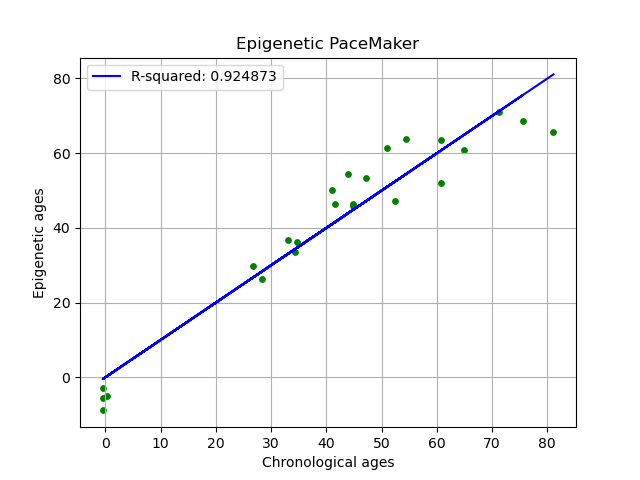
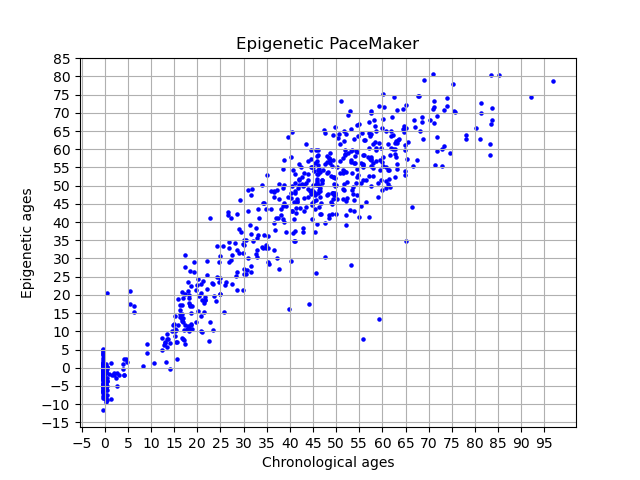
added plots, runtime, output files

Changed region(s): [[0.0312, 0.0938, 0.9062, 0.9062], [0.125, 0.875, 0.875, 0.9375]]

diff --git a/Protocol/epigenetic_pacemaker.py b/Protocol/epigenetic_pacemaker.py
@@ -1,20 +1,33 @@
-# IMPORTS
-import math
-import numpy as np
-import matplotlib.pyplot as plt
-import utilities as utils
-from scipy import stats
+# import the data retrieval class
 from EpigeneticPacemaker.ExampleData.DataSets import get_example_data
+from typing import Dict, Tuple
+import numpy as np
+import scipy.stats
+import matplotlib.pyplot as plt
+from scipy import stats
+import math
+# from scipy.stats import chi2_contingency
+import subprocess
+import numpy as np
+import time
+import utilities as utils
 
 
-#   <----- UNENCRYPTED CEM-UPM ALGORITHM ----->
+# -------------------------------------------------------------------------unused
+# create S' entries for sites with high Pearson correaltion
+def Create_S_matrix(training_sites, test_methylation_values):
+    sites = []
+    for x in range(len(training_sites)):
+        sites.append(test_methylation_values[training_sites[x]])  # entry Si,j
+    return sites
 
 
+# ----------------------------------------------------------------------------------------
 # clear from data variables correspond to small ages
-def clear_data_by_ages(ages, methylation_values, limit):
+def Clear_data_by_ages(ages, methylation_values, limit):
     x = 0
     while x < len(ages):
-        if ages[x] < limit:
+        if (ages[x] < limit):
             # delete age and site values related to it
             methylation_values = np.delete(methylation_values, x, axis=1)
             ages = np.delete(ages, x)
@@ -23,26 +36,27 @@ def clear_data_by_ages(ages, methylation_values, limit):
     return ages, methylation_values
 
 
-# func for calculating absolute Pearson correlation
+# func for calculating absolute Pearson correaltion
 def pearson_correlation(ages, methylation_values):
     p_values = []
     for x in range(len(methylation_values)):
-        p_values.append(abs(stats.pearsonr(methylation_values[x], ages)[0]))
+        p_values.append(abs(scipy.stats.pearsonr(methylation_values[x], ages)[0]))
     return p_values
 
 
 # create y vector for sites with high Pearson correaltion
-def create_y_vector(s):
+def Create_Y_vector(S):
     y = []
-    for i in range(len(s)):
-        for j in range(len(s[i])):
-            y.append(s[i][j])  # entry Si,j
+    for i in range(len(S)):
+        for j in range(len(S[i])):
+            y.append(S[i][j])  # entry Si,j
     return y
 
 
 # Naive func for calculating rates and start states(βˆ = (X^T *X)^−1 * X^T*y)
 # gets : ages (X matrix), sites (y vecrtor), n (the number of sites)
-def calculate_rates_and_start_states_naive(ages, sites, n):
+def calculate_rates_and_startStates_Naive(ages, sites, n):
+    # create matrix X
     m = len(ages)
     matrix = []
     # create matrix X
@@ -68,24 +82,15 @@ def calculate_rates_and_start_states_naive(ages, sites, n):
                 row.append(0)
                 place += 1
             matrix.append(row)
-    mat = []
-    for x in range(len(matrix)):
-        temp = []
-        for y in range(len(matrix[0])):
-            temp.append(matrix[x][y])
-        mat.append(temp)
-    f = open("demofile2.txt", "w")
-    f.write(str(mat))
-    f.close()
-    # create X^T
+            # create X^T
     matrix_transpose = np.array(matrix).transpose()
-    # multipy X^T *X
+    # multipe X^T *X
     mul = np.matmul(matrix_transpose, np.array(matrix))
     # get matrix inverse ((X^T *X)^−1)
     inverse = np.linalg.inv(mul)
-    # multiply [(X^T *X)^−1] and  [X^T]
+    # multiple [(X^T *X)^−1] and  [X^T]
     mul = np.matmul(inverse, matrix_transpose)
-    # multiply the result by vector y
+    # multiple the result by vector y
     result = np.matmul(mul, np.array(sites))
     ri = []
     s0i = []
@@ -99,7 +104,7 @@ def calculate_rates_and_start_states_naive(ages, sites, n):
 
 # advanced func for calculating rates and start states(βˆ = (X^T *X)^−1 * X^T*y)
 # gets : ages and sites
-def calculate_rates_and_start_states(ages, sites):
+def calculate_rates_and_startStates(ages, sites):
     a = sum(ages)
     b = 0
     for i in range(len(ages)):
@@ -134,7 +139,7 @@ def calculate_rates_and_start_states(ages, sites):
 
 
 # calculate epigenetic ages by tj = ∑(i≤n)[ri*(si,j-s0i))]/∑(i≤n)[ri^2]
-def calculate_ages(S, s0i, ri):
+def calcultae_eAges(S, s0i, ri):
     denominator = 0
     for i in range(len(ri)):
         denominator += ri[i] * ri[i]
@@ -148,13 +153,13 @@ def calculate_ages(S, s0i, ri):
 
 
 # calculate RSS,  (RSS =∑(i≤n)∑(j≤m)((Si,j – (s0i + ritj))^2).
-def calculate_rss(s, s0i, ri, tj):
-    rss = 0
+def calculateRSS(S, s0i, ri, tj):
+    RSS = 0
     for i in range(len(ri)):
         for j in range(len(tj)):
-            temp = s[i][j] - (s0i[i] + ri[i] * tj[j])
-            rss += temp * temp
-    return rss
+            temp = S[i][j] - (s0i[i] + ri[i] * tj[j])
+            RSS += temp * temp
+    return RSS
 
 
 # EPM algorithm
@@ -162,28 +167,70 @@ def calculate_rss(s, s0i, ri, tj):
 def EPM(S, y, tj, delta, n):
     m = 2
     # first iteration
-    ri, s0i = calculate_rates_and_start_states(tj, y)
-    tj = calculate_ages(S, s0i, ri)
-    RSS0 = calculate_rss(S, s0i, ri, tj)
+    ri, s0i = calculate_rates_and_startStates(tj, y)
+    tj = calcultae_eAges(S, s0i, ri)
+    RSS0 = calculateRSS(S, s0i, ri, tj)
     if (n == 1):
         return ri, s0i, tj, RSS0
     # second iteration
-    ri, s0i = calculate_rates_and_start_states(tj, y)
-    RSS1 = calculate_rss(S, s0i, ri, tj)
-    tj = calculate_ages(S, s0i, ri)
+    ri, s0i = calculate_rates_and_startStates(tj, y)
+    RSS1 = calculateRSS(S, s0i, ri, tj)
+    print("the difference is : %.16f" % (RSS0 - RSS1))
+    tj = calcultae_eAges(S, s0i, ri)
     # rest of iterations
-    while (RSS0 - RSS1 > delta and m < n):
+    # while (RSS0 - RSS1 > delta and m < n):
+    while (m < n):
         RSS0 = RSS1
-        ri, s0i = calculate_rates_and_start_states(tj, y)
-        tj = calculate_ages(S, s0i, ri)
-        RSS1 = calculate_rss(S, s0i, ri, tj)
+        ri, s0i = calculate_rates_and_startStates(tj, y)
+        tj = calcultae_eAges(S, s0i, ri)
+        RSS1 = calculateRSS(S, s0i, ri, tj)
+        print("the difference is : %.16f" % (RSS0 - RSS1))
         m += 1
     return ri, s0i, tj, RSS1, m
 
 
+# EPM algorithm with naive implementation
+# gets S' matrix, Y vector, chronological ages - tj, delta = minimal improvement acceptable,  n = maximum number of iterations
+
+def EPM_naive(S, y, tj, delta, n):
+    m = 2
+    # first iteration
+    ri, s0i = calculate_rates_and_startStates_Naive(tj, y, len(S))
+    tj = calcultae_eAges(S, s0i, ri)
+    RSS0 = calculateRSS(S, s0i, ri, tj)
+    if (n == 1):
+        return ri, s0i, tj, RSS0
+    # second iteration
+    ri, s0i = calculate_rates_and_startStates_Naive(tj, y, len(S))
+    RSS1 = calculateRSS(S, s0i, ri, tj)
+    # print("the difference is : ", str(RSS0 - RSS1))
+    tj = calcultae_eAges(S, s0i, ri)
+    # rest of iterations
+    while ( m < n):
+        RSS0 = RSS1
+        ri, s0i = calculate_rates_and_startStates_Naive(tj, y, len(S))
+        tj = calcultae_eAges(S, s0i, ri)
+        RSS1 = calculateRSS(S, s0i, ri, tj)
+        #   print("the difference is : ", str(RSS0 - RSS1))
+        m += 1
+    return ri, s0i, tj, RSS1, m
+
+
+# create scatter graph
+def graph(x: np.array, y: np.array):
+    plt.title("Epigenetic PaceMaker")
+    plt.xlabel("Chronological ages")
+    plt.ylabel("Epigenetic ages")
+    plt.xticks([tick for tick in range(-20, 100, 5)])
+    plt.yticks([tick for tick in range(-20, 100, 5)])
+    plt.gca().xaxis.grid(True)
+    plt.gca().yaxis.grid(True)
+    plt.scatter(x, y, color="green", s=5)
+    plt.show()
+
 
 # calculate chi square and p value
-def chi_square(num_individuals, num_sites, val1, val2):
+def Chi_square(num_individuals, num_sites, val1, val2):
     # calc chi square
     chi = num_individuals * num_sites * math.log(val1 / val2)
     # calc p value, use chi value and degree of freedom
@@ -202,7 +249,7 @@ def noise(S, s0, r, t):
 
 
 # ratio between its MC to PM rate
-def graph_ratio_sites(rMC, rPM):
+def graph_Ratio_sites(rMC, rPM):
     arr = []
     s = 0
     for x in range(len(rMC)):
@@ -228,7 +275,38 @@ def graph_ratio_ages(e_age, c_age):
     plt.show()
 
 
-def run_unencrypted_epm():
+# func to compare between number of individuals to running time, solution: 1 for naive, 2 otherwise
+def checkRunningTimes (NUMBER_OF_SITES, NUMBER_OF_PEOPLE, solution):
+    # retrieve the training and testing data
+    data1, data2 = get_example_data()
+    # unpack the training and testing data
+    samples1, cpg_sites1, ages1, methylation_values1 = data1
+    samples2, cpg_sites2, ages2, methylation_values2 = data2
+    ages = np.hstack([ages1 , ages2])
+    methylation_values = np.hstack([methylation_values1 , methylation_values2])
+    # get the absolute value of the correlation coefficient
+    pearson = np.array(pearson_correlation (ages, methylation_values))
+    # return list of site indices with a high absolute correlation coefficient
+    sites = np.where(pearson > .90)[0]
+    print (len(sites))
+    sites = sites[:NUMBER_OF_SITES]
+    ages = ages[:NUMBER_OF_PEOPLE]
+    S = methylation_values[sites, :NUMBER_OF_PEOPLE]
+    print ("the number of individuals is : ", str(len(ages)))
+     #creat y vector :
+    y = Create_Y_vector(S)
+    st = time.time()
+     #run EPM algorithm
+    if(solution == 1):
+            ri, s0i,tj,RSS, m= EPM_naive(S,y, ages, 0.00001, 4)
+    else:
+            ri, s0i,tj,RSS, m= EPM(S,y, ages, 0.00001, 4)
+    et = time.time()
+    elapsed_time = (et - st)
+    print('Execution time:', elapsed_time, 'seconds')
+
+
+def createGraph(NUMBER_OF_SITES, NUMBER_OF_PEOPLE):
     # retrieve the training and testing data
     data1, data2 = get_example_data()
     # unpack the training and testing data
@@ -236,22 +314,22 @@ def run_unencrypted_epm():
     samples2, cpg_sites2, ages2, methylation_values2 = data2
     ages = np.hstack([ages1, ages2])
     methylation_values = np.hstack([methylation_values1, methylation_values2])
-    # take only peaple with age >= 0
-    # ages, methylation_values = Clear_data_by_ages (ages, methylation_values,0)
     # get the absolute value of the correlation coefficient
     pearson = np.array(pearson_correlation(ages, methylation_values))
     # return list of site indices with a high absolute correlation coefficient
     sites = np.where(pearson > .90)[0]
-    # print("the number of individuals is : ", str(len(ages)))
-    # print("the number of sites is : ", str(len(sites)))
-    # creat S matrix :
-    S = methylation_values[sites]
+    sites = sites[:NUMBER_OF_SITES]
+    ages = ages[:NUMBER_OF_PEOPLE]
+    S = methylation_values[sites, :NUMBER_OF_PEOPLE]
+    print("number of sites is: ", str(len(sites)))
+    print("number of individuals is : ", str(len(ages)))
     # creat y vector :
-    y = create_y_vector(S)
+    y = Create_Y_vector(S)
     # run EPM algorithm
-    ri, s0i, tj, RSS, m = EPM(S, y, ages, 0.00001, 1000)
-    # print("number of iterations is: ", str(m))
+    ri, s0i, tj, RSS, m = EPM(S, y, ages, 0.00000001, 4)
+    #    print (m)
     utils.create_graph(ages, tj)
+
     return tj
 
 

diff --git a/Protocol/main.py b/Protocol/main.py
@@ -11,7 +11,7 @@ from time_step import time_step
 
 
 # CONSTANTS
-NUM_OF_OWNERS = 8
+NUM_OF_OWNERS = 5
 NUM_OF_ITERATIONS = 4
 
 
@@ -99,7 +99,7 @@ if __name__ == '__main__':
     end_time = time.time()
 
     hours, minutes, seconds = utils.timer(start_time, end_time)
-
+    logging.info("Runtime: " + str(end_time - start_time))
     logging.info("Runtime: " + ("{:0>2}:{:0>2}:{:05.2f}".format(int(hours), int(minutes), seconds)))
 
     # Print Results
@@ -107,7 +107,9 @@ if __name__ == '__main__':
     utils.create_graph(original_ages, my_mle.get_predicted_ages())
 
     # Run algorithm on unencrypted dataset
-    # predicted_ages = epigenetic_pacemaker.run_unencrypted_epm()
-    # mean_error = utils.mean_average_error(predicted_ages, my_mle.get_predicted_ages())
+    predicted_ages = epigenetic_pacemaker.createGraph(data_handler.NUMBER_OF_SITES, data_handler.NUMBER_OF_PEOPLE)
+    mean_error = utils.mean_error(predicted_ages, my_mle.get_predicted_ages())
 
-    # logging.info("Mean average error: " + str(mean_error))
+    logging.info("Mean average error: " + str(mean_error))
+
+

diff --git a/Protocol/utilities.py b/Protocol/utilities.py
@@ -99,7 +99,7 @@ def pearson_correlation(meth_matrix: np.array, phenotype: np.array) -> np.array:
     return covariance / (variance_meth * variance_phenotype)
 
 
-def mean_average_error(set1: np.array, set2: np.array) -> float:
+def mean_error(set1: np.array, set2: np.array) -> float:
     return np.average(np.abs(set1 - set2))
 
 
@@ -108,8 +108,9 @@ def create_graph(x: np.array, y: np.array):
     plt.title("Epigenetic PaceMaker")
     plt.xlabel("Chronological ages")
     plt.ylabel("Epigenetic ages")
-    plt.xticks([tick for tick in range(-20, 100, 5)])
-    plt.yticks([tick for tick in range(-20, 100, 5)])
+    ticks = [tick for tick in range(-20, 100, 5)]
+    plt.xticks(ticks)
+    plt.yticks(ticks)
     plt.gca().xaxis.grid(True)
     plt.gca().yaxis.grid(True)
     plt.scatter(x, y, color="blue", s=5)

diff --git a/Protocol/data_handler.py b/Protocol/data_handler.py
@@ -7,8 +7,8 @@ from EpigeneticPacemaker.ExampleData.DataSets import get_example_data
 # CONSTANTS
 PRECISION = None
 MIN_COEFFICIENT = 0.90
-NUMBER_OF_SITES = 5
-NUMBER_OF_PEOPLE = 96
+NUMBER_OF_SITES = 20
+NUMBER_OF_PEOPLE = 200
 
 
 def combine_datasets(data_set1, data_set2) -> tuple[np.array, np.array, np.array, np.array]:
